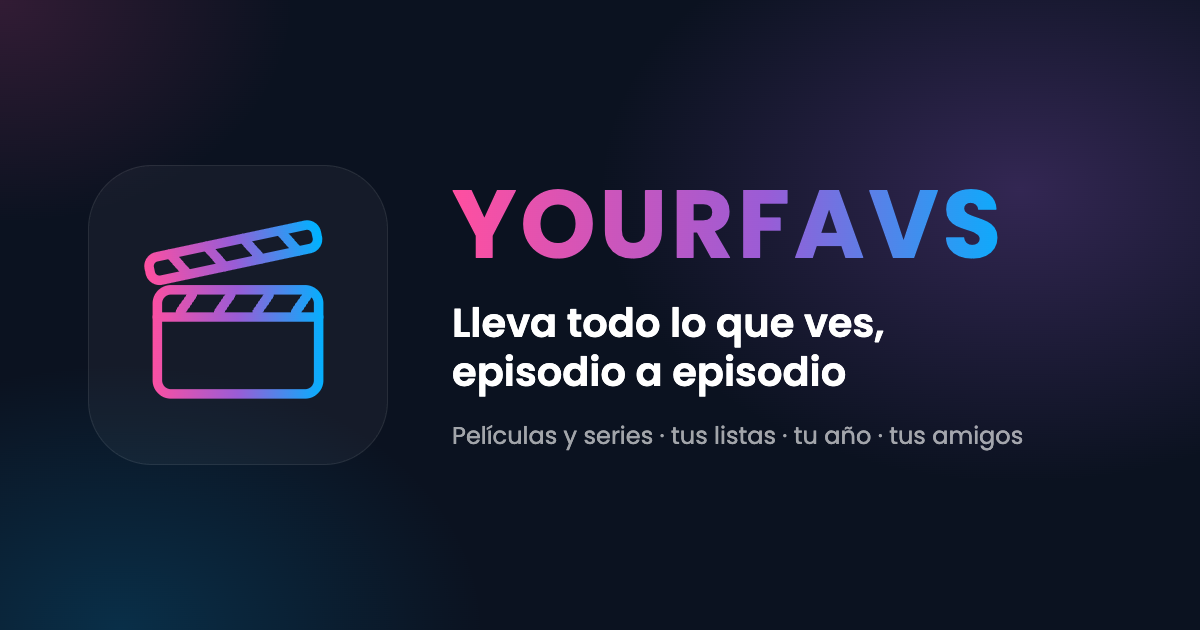
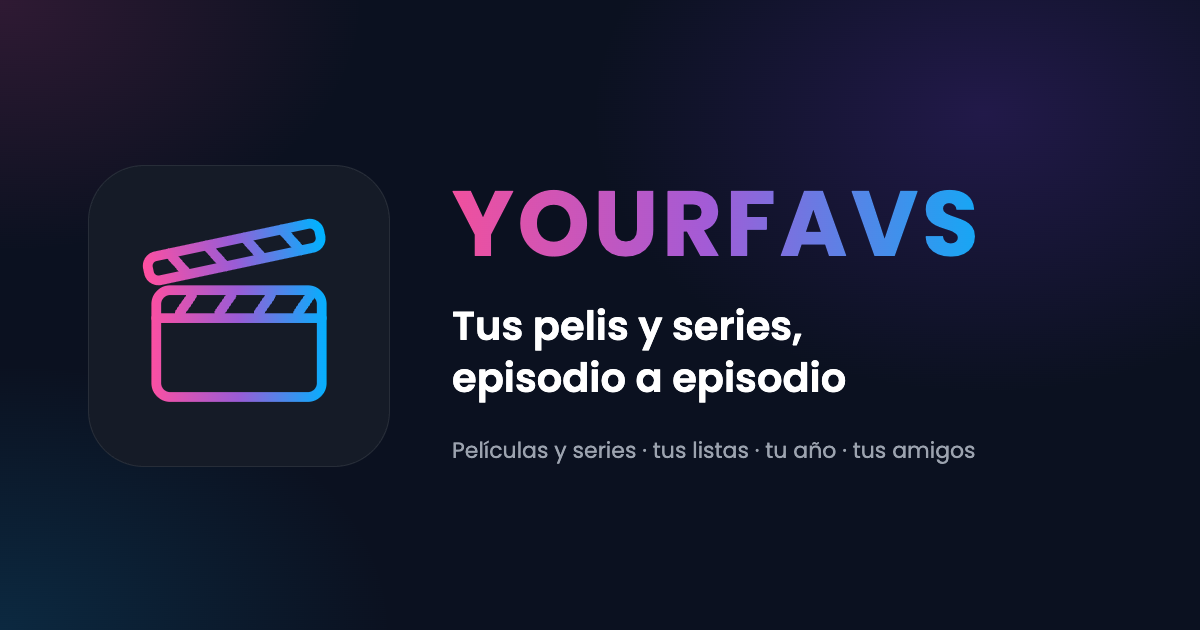
feat(qa 6.3): títulos y descripciones por página — el Layout añade « · YourFavs» una vez y con el mismo separador, corta la descripción a ~160 caracteres y usa una por defecto que dice qué es YourFavs; portada con el lema nuevo «Tus pelis y series, episodio a episodio» (utils/core/siteCopy.ts, tambi

diff --git a/src/utils/core/siteCopy.ts b/src/utils/core/siteCopy.ts
@@ -1,0 +1,11 @@
+/**
+ * Textos de la marca que comparten el <head> (Layout), la portada y la bienvenida (QA 6.3, H03).
+ * Un solo sitio: si cambia el lema, cambia en el título de la portada, en su descripción y en el H1 de
+ * la bienvenida a la vez.
+ */
+export const SITE_TAGLINE = 'Tus pelis y series, episodio a episodio';
+
+/** Descripción por defecto (y la de la portada): qué es YourFavs, en una frase para buscadores y enlaces. */
+export const SITE_DESCRIPTION =
+    'Lleva la cuenta de las películas y series que ves, episodio a episodio: tus listas, qué ver hoy, '
+    + 'dónde verlo, los estrenos y lo que ven tus amigos.';

diff --git a/src/utils/catalog/categories.ts b/src/utils/catalog/categories.ts
@@ -5,7 +5,7 @@ export const allCategories = [
     {slug: 'crimen', name: 'CRIMEN', label: 'Crimen'},
     {slug: 'aventura', name: 'AVENTURA', label: 'Aventura'},
     {slug: 'fantasia', name: 'FANTASÍA', label: 'Fantasía'},
-    {slug: 'ciencia_ficcion', name: 'CIENCIA FICCIÓN', label: 'Ciencia Ficción'},
+    {slug: 'ciencia_ficcion', name: 'CIENCIA FICCIÓN', label: 'Ciencia ficción'},
     {slug: 'misterio', name: 'MISTERIO', label: 'Misterio'},
     {slug: 'terror', name: 'TERROR', label: 'Terror'},
     {slug: 'animacion', name: 'ANIMACIÓN', label: 'Animación'},

diff --git a/src/utils/catalog/catalogRows.ts b/src/utils/catalog/catalogRows.ts
@@ -198,7 +198,7 @@ export function decadeRowDef(decade: number): CatalogRowDef {
     const to = decade + 9;
     return {
         key: 'decada',
-        title: `Lo mejor de los ${decade}`,
+        title: `Lo mejor de los ${decade < 2000 ? String(decade % 100).padStart(2, '0') : decade}`, // «los 90», «los 2000» (H47)
         subtitle: 'Las mejor valoradas de esa década, no las más famosas.',
         why: `${decade}–${to}, por nota`,
         media: 'movie',
